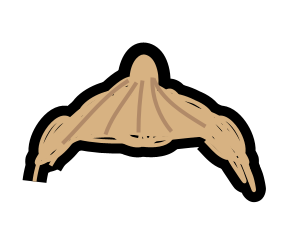
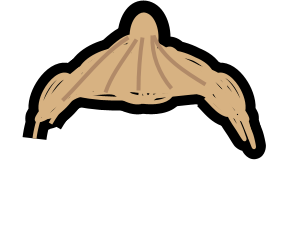
Buttons and images have resized

diff --git a/Main.py b/Main.py
@@ -3,11 +3,7 @@ from PIL import Image, ImageTk
 
 from Cosmetic import gender_picked, skin_color_picked, eye_color_picked, outfit_picked, hair_picked, finalize_character
 
-isMale = True
-final_skin_color = "none"
-final_eye_color = "none"
-final_hair_color = "none"
-final_outfit = "none"
+
 class App:
   # The intial framework for the start and gender pages, as well as the show_frame procedures take credit from Chatgpt
     def __init__(self, root):
@@ -26,10 +22,10 @@ class App:
   # frame 1
     def create_start_page(self):
         frame = tk.Frame(self.root)
-        label = tk.Label(frame, text="Are you ready to make your character?")
+        label = tk.Label(frame, text="Are you ready to make your character?", font=("Arial", 24))
         label.grid(column=0,row=0)
         # Switch to second page button
-        nxt_button = tk.Button(frame, text="Get Started", command=lambda: self.show_frame("second"))
+        nxt_button = tk.Button(frame, text="Get Started", command=lambda: self.show_frame("second"),font=("Arial", 36))
         nxt_button.grid(column=0,row=6)
         # Store frame to switch later
         self.frames["start"] = frame
@@ -38,49 +34,52 @@ class App:
   # frame 2
     def create_gender_page(self):
         frame = tk.Frame(self.root)
-        label = tk.Label(frame, text="Pick a Gender.")
-        label.grid(column=0,row=0)
+        label = tk.Label(frame, text="Pick a Gender.", font=("Arial", 24))
+        label.grid(column=1,row=0, columnspan=2)
         # Back to home page button
-        reset_button = tk.Button(frame, text="Reset", command=lambda: self.show_frame("start"))
-        reset_button.grid(column=1,row=1)
-        nxt_button = tk.Button(frame, text="Continue ->", command=lambda: self.show_frame("third"))
-        nxt_button.grid(column=0,row=1)
+        reset_button = tk.Button(frame, text="Reset", command=lambda: self.show_frame("start"), font=("Arial", 12))
+        reset_button.grid(column=1,row=2, padx=10, pady=10)
+        nxt_button = tk.Button(frame, text="Continue ->", command=lambda: self.show_frame("third"), font=("Arial", 12))
+        nxt_button.grid(column=2,row=2, pady=10, padx=10)
         # load images for both male and female
         male_img = Image.open("MaleOutfits/Male.png")
+        male_img = male_img.resize((144, 288))
         female_img = Image.open("FemaleOutfits/Female.png")
+        female_img = female_img.resize((144, 288))
         # Create photoinstances of the images
         self.male_photo = ImageTk.PhotoImage(male_img)
         self.female_photo = ImageTk.PhotoImage(female_img)
         # Now create the buttons
-        male_button = tk.Button(frame, image=self.male_photo, command=gender_picked(0))
-        male_button.grid(column=0,row=2)
-        female_button = tk.Button(frame, image=self.female_photo, command=gender_picked(1),)
-        female_button.grid(column=1,row=2)
+        male_button = tk.Button(frame, image=self.male_photo, command=lambda: gender_picked(True))
+        male_button.grid(column=2,row=3, padx=10, pady=10)
+        female_button = tk.Button(frame, image=self.female_photo, command=lambda: gender_picked(False),)
+        female_button.grid(column=1,row=3, padx=10, pady=10)
         # Store frame to switch later
         self.frames["second"] = frame
   # frame 3
     def create_skcolor_page(self):
         frame = tk.Frame(self.root)
-        label = tk.Label(frame, text="Pick a Skin Color.")
-        label.grid(column=0,row=0)
+        label = tk.Label(frame, text="Pick Any Skin Color.", font=("Arial", 24))
+        label.grid(column=1,row=0, columnspan=3)
         # Back to home page button
-        reset_button = tk.Button(frame, text="Reset", command=lambda: self.show_frame("start"))
-        reset_button.grid(column=1,row=1)
-        nxt_button = tk.Button(frame, text="Continue ->", command=lambda: self.show_frame("fourth"))
-        nxt_button.grid(column=0,row=1)
+        reset_button = tk.Button(frame, text="Reset", command=lambda: self.show_frame("start"), font=("Arial", 12))
+        reset_button.grid(column=1,row=2, padx=10, pady=10)
+        nxt_button = tk.Button(frame, text="Continue ->", command=lambda: self.show_frame("fourth"), font=("Arial", 12))
+        nxt_button.grid(column=3,row=2, pady=10, padx=10)
         # iteration time. This will create a grid of buttons with all skin tones
         skin_color_path = "Face Colors/"
         colors = ["Color1.png", "Color2.png", "Color3.png", "Color4.png", "Color5.png", "Color6.png", "Color7.png","Color8.png","Color9.png","Color10.png"]
         i = 1
         for idx, color in enumerate(colors):
           color_img = Image.open(skin_color_path + color)
+          color_img = color_img.resize((130, 130))
           self.color_photo = ImageTk.PhotoImage(color_img)
           color_btn = tk.Button(frame, image=self.color_photo, command=lambda idx=idx:skin_color_picked(idx))
           color_btn.image = self.color_photo  # Keep a reference to avoid garbage collection (Github copilot)
           if idx % 2 == 0:
-              color_btn.grid(row=2, column=(idx // 2))
+              color_btn.grid(row=3, column=(idx // 2))
           else:
-              color_btn.grid(row=3, column=(idx - i))
+              color_btn.grid(row=4, column=(idx - i))
               i += 1
 
         # Store frame to switch later
@@ -88,13 +87,13 @@ class App:
   # frame 4
     def create_eyecolor_page(self):
         frame = tk.Frame(self.root)
-        label = tk.Label(frame, text="Pick a Eye Color.")
-        label.grid(column=0,row=0)
+        label = tk.Label(frame, text="Choose Your Eye Color.", font=("Arial", 24))
+        label.grid(column=0,row=0, columnspan=3)
         # Back to home page button
-        reset_button = tk.Button(frame, text="Reset", command=lambda: self.show_frame("start"))
-        reset_button.grid(column=1,row=1)
-        nxt_button = tk.Button(frame, text="Continue ->", command=lambda: self.show_frame("fifth"))
-        nxt_button.grid(column=0,row=1)
+        reset_button = tk.Button(frame, text="Reset", command=lambda: self.show_frame("start"),font=("Arial", 12))
+        reset_button.grid(column=0,row=1, padx=10, pady=10)
+        nxt_button = tk.Button(frame, text="Continue ->", command=lambda: self.show_frame("fifth"), font=("Arial", 12))
+        nxt_button.grid(column=2,row=1, pady=10, padx=10)
         # Iterate through all the eyes and make a grid of buttons
         eye_color_path = "EyeColors/"
         eye_colors = ["Amber.png", "Black.png", "Blue.png", "Brown.png", "Green.png", "Hazel.png"]
@@ -115,13 +114,13 @@ class App:
   # frame 5
     def create_hair_page(self):
         frame = tk.Frame(self.root)
-        label = tk.Label(frame, text="Pick a Hair Color.")
-        label.grid(column=0,row=0)
+        label = tk.Label(frame, text="Pick a Hair Color.", font=("Arial", 24))
+        label.grid(column=0,row=0,columnspan=3)
         # Back to home page button
-        reset_button = tk.Button(frame, text="Reset", command=lambda: self.show_frame("start"))
-        reset_button.grid(column=1,row=1)
-        nxt_button = tk.Button(frame, text="Continue ->", command=lambda: self.show_frame("sixth"))
-        nxt_button.grid(column=0,row=1)
+        reset_button = tk.Button(frame, text="Reset", command=lambda: self.show_frame("start"),font=("Arial", 12))
+        reset_button.grid(column=0,row=1)
+        nxt_button = tk.Button(frame, text="Continue ->", command=lambda: self.show_frame("sixth"),font=("Arial", 12))
+        nxt_button.grid(column=2,row=1)
         # Iterate through all the hair colors and make a grid of buttons
         hair_color_path = "Hair/"
         hair = ["BrownShort.png", "BlondeShort.png", "BrownBun.png", "BlondeBun.png", "BrownLong.png", "BlondeLong.png"]
@@ -142,18 +141,19 @@ class App:
   # frame 6
     def create_outfits_page(self):
         frame = tk.Frame(self.root)
-        label = tk.Label(frame, text="The best part: Pick your favorite outfit")
-        label.grid(column=0,row=0)
+        label = tk.Label(frame, text="The Best Part: Select Your Favorite Outfit", font=("Arial", 24))
+        label.grid(column=0,row=0,columnspan=4)
         # Back to home page button
-        reset_button = tk.Button(frame, text="Reset", command=lambda: self.show_frame("start"))
+        reset_button = tk.Button(frame, text="Reset", command=lambda: self.show_frame("start"), font=("Arial", 12))
         reset_button.grid(column=1,row=1)
-        nxt_button = tk.Button(frame, text="Continue ->", command=self.finalize_and_show)
-        nxt_button.grid(column=0,row=1)
+        nxt_button = tk.Button(frame, text="Continue ->", command=self.finalize_and_show, font=("Arial", 12))
+        nxt_button.grid(column=2,row=1)
         # iterate through all the outfits and make a grid of buttons
         outfit_path = "MaleOutfits/"
         outfits = ["MaRed.png", "MaOrange.png", "MaYellow.png", "MaGreen.png", "MaBlue.png", "MaPurple.png", "MaPink.png", "MaBlack.png"]
         for idx, outfit in enumerate(outfits):
           outfit_img = Image.open(outfit_path + outfit)
+          outfit_img = outfit_img.resize((144, 288))  # Resize the image (Chatgpt suggestion)
           self.outfit_photo = ImageTk.PhotoImage(outfit_img)
           outfit_btn = tk.Button(frame, image=self.outfit_photo, command=lambda idx=idx: outfit_picked(idx))
           outfit_btn.image = self.outfit_photo #to avoid garbage collection
@@ -167,14 +167,14 @@ class App:
   # final frame
     def create_final_page(self):
         frame = tk.Frame(self.root)
-        label = tk.Label(frame, text="How do you like it?")
+        label = tk.Label(frame, text="How do you like it?", font=("Arial", 24))
         label.grid(column=0, row=0)
         # Back to home page button
-        reset_button = tk.Button(frame, text="Reset", command=self.reset_game)
+        reset_button = tk.Button(frame, text="Reset", command=self.reset_game, font=("Arial", 30))
         reset_button.grid(column=0, row=1)
         # The canvas will be used to display the final character
-        self.final_canvas = tk.Canvas(frame, width=750, height=750)
-        self.final_canvas.grid(row=1, column=2, columnspan=2)
+        self.final_canvas = tk.Canvas(frame, width=400, height=400)
+        self.final_canvas.grid(row=2, column=0)
         # Store frame to switch later
         self.frames["final"] = frame
     def show_frame(self, page_name):
@@ -189,6 +189,11 @@ class App:
       finalize_character(self)
 
     def reset_game(self):
+      global isMale
+      global final_skin_color
+      global final_eye_color
+      global final_hair_color
+      global final_outfit
       self.show_frame("start")
       final_skin_color = "none"
       final_eye_color = "none"

diff --git a/Cosmetic.py b/Cosmetic.py
@@ -12,12 +12,7 @@ isMale = True  # Default gender (can be changed later)
 #the isMale boolean will be decided depending on a 0 or 1. 0 is male, and 1 is female
 def gender_picked(gender):
     global isMale
-    if (gender == 0):
-        isMale = True
-        return
-    else:
-        isMale = False
-        return
+    isMale = gender
     
 def skin_color_picked(idx):
         global final_skin_color
@@ -43,7 +38,7 @@ def outfit_picked(idx):
         global final_outfit
         global isMale
         outfit_path = " "
-        if isMale:
+        if isMale == True:
             outfit_path = "MaleOutfits/"
             outfits = ["MaRed.png", "MaOrange.png", "MaYellow.png", "MaGreen.png", "MaBlue.png", "MaPurple.png", "MaPink.png", "MaBlack.png"]
         else:
@@ -53,6 +48,7 @@ def outfit_picked(idx):
         final_outfit = outfit_path + outfits[idx]
         return
 def finalize_character(self):
+    global isMale
     global final_skin_color
     global final_eye_color
     global final_hair_color
@@ -72,9 +68,13 @@ def finalize_character(self):
             final_outfit = "FemaleOutfits/FeRed.png"  # example fallback for females
     # Load images
     skin_image = Image.open(final_skin_color)
+    skin_image = skin_image.resize((115,115))
     eye_image = Image.open(final_eye_color)
+    eye_image = eye_image.resize((82,48))
     hair_image = Image.open(final_hair_color)
+    hair_image = hair_image.resize((144,112))
     outfit_image = Image.open(final_outfit)
+    outfit_image = outfit_image.resize((144,288))
 
     # Convert for Tkinter
     self.skin_photo = ImageTk.PhotoImage(skin_image)
@@ -86,7 +86,7 @@ def finalize_character(self):
     self.final_canvas.delete("all")
 
     # Draw images centered at (200, 300)
-    self.final_canvas.create_image(400, 490, image=self.outfit_photo)
-    self.final_canvas.create_image(400, 325, image=self.skin_photo)
-    self.final_canvas.create_image(400, 300, image=self.eye_photo)
-    self.final_canvas.create_image(400, 290, image=self.hair_photo)
+    self.final_canvas.create_image(200, 150, image=self.outfit_photo)
+    self.final_canvas.create_image(200, 70, image=self.skin_photo)
+    self.final_canvas.create_image(200, 63, image=self.eye_photo)
+    self.final_canvas.create_image(200, 50, image=self.hair_photo)
